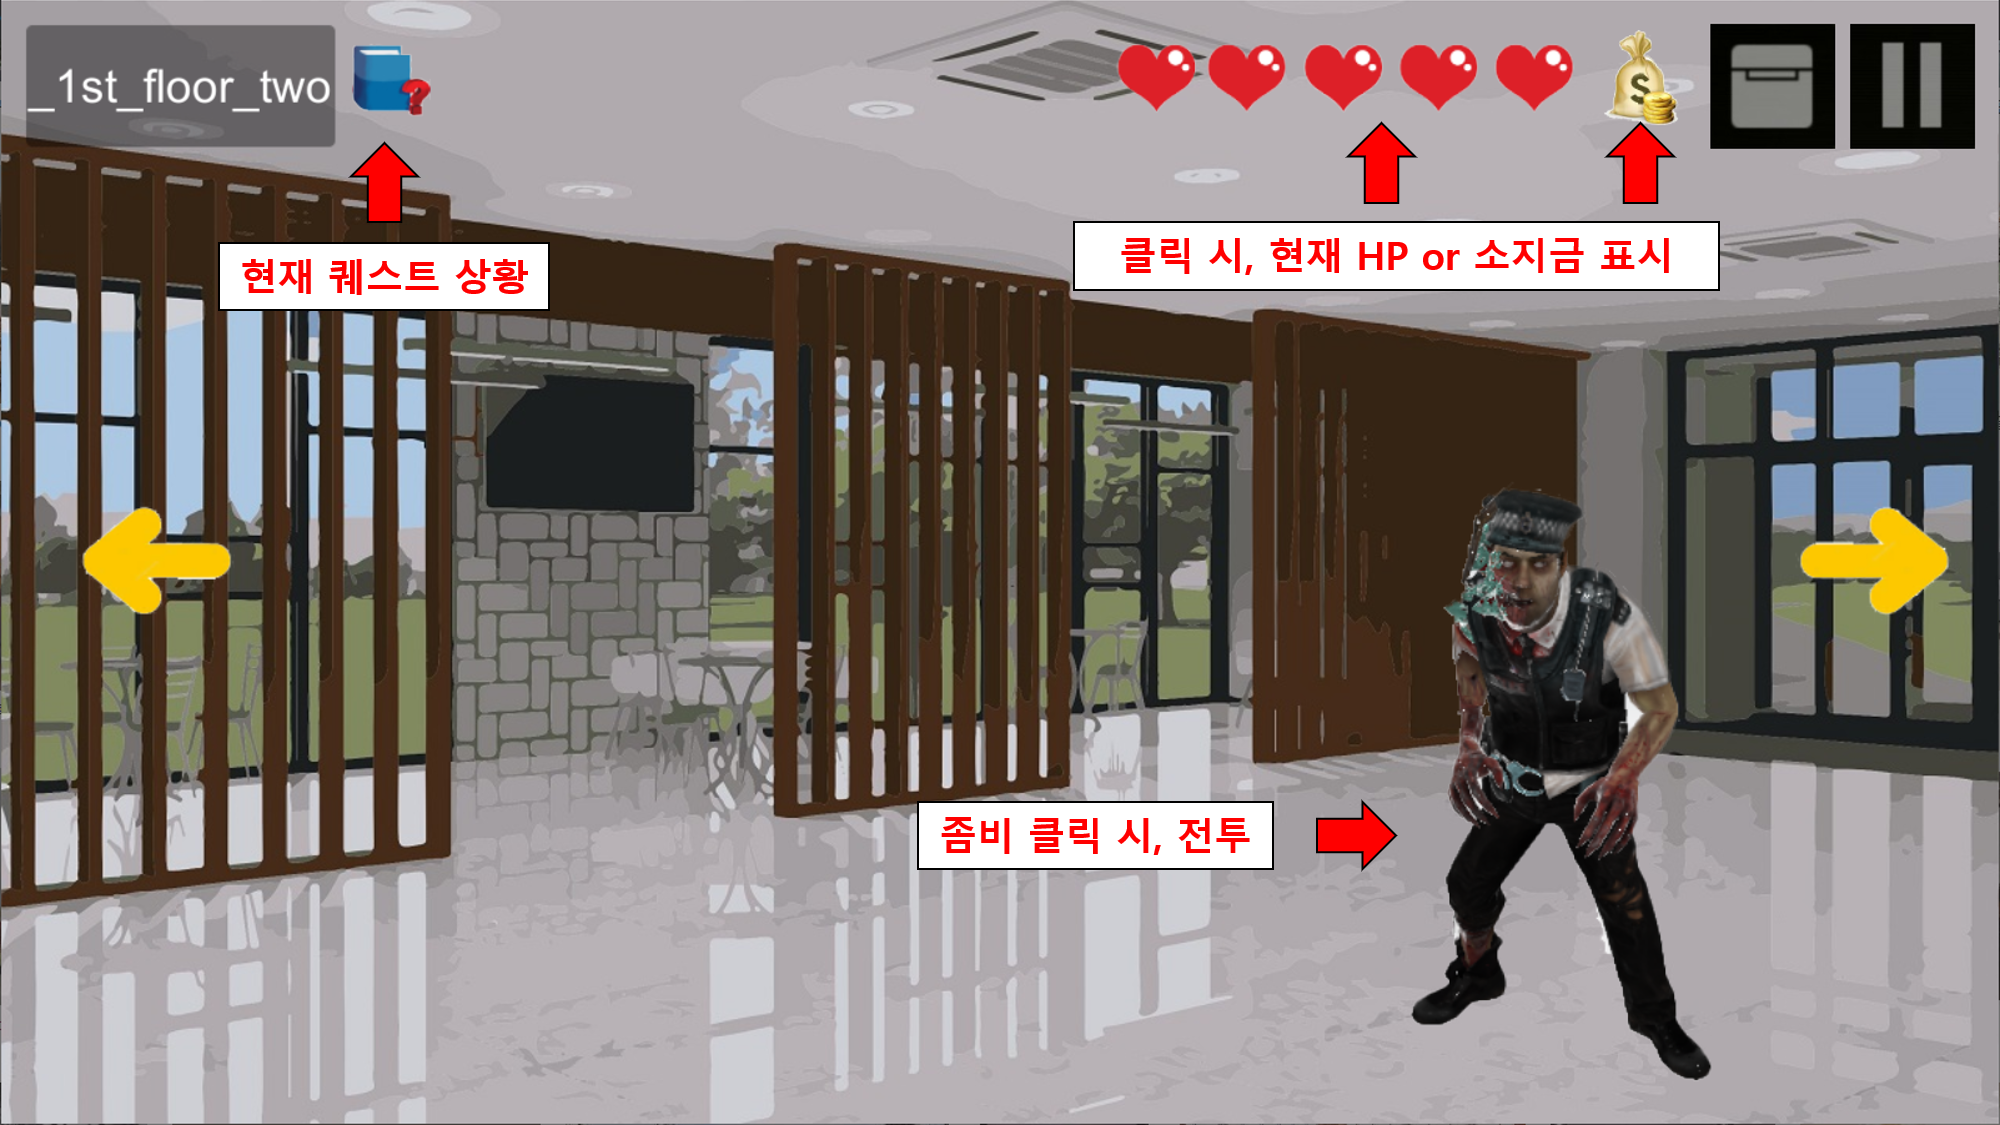
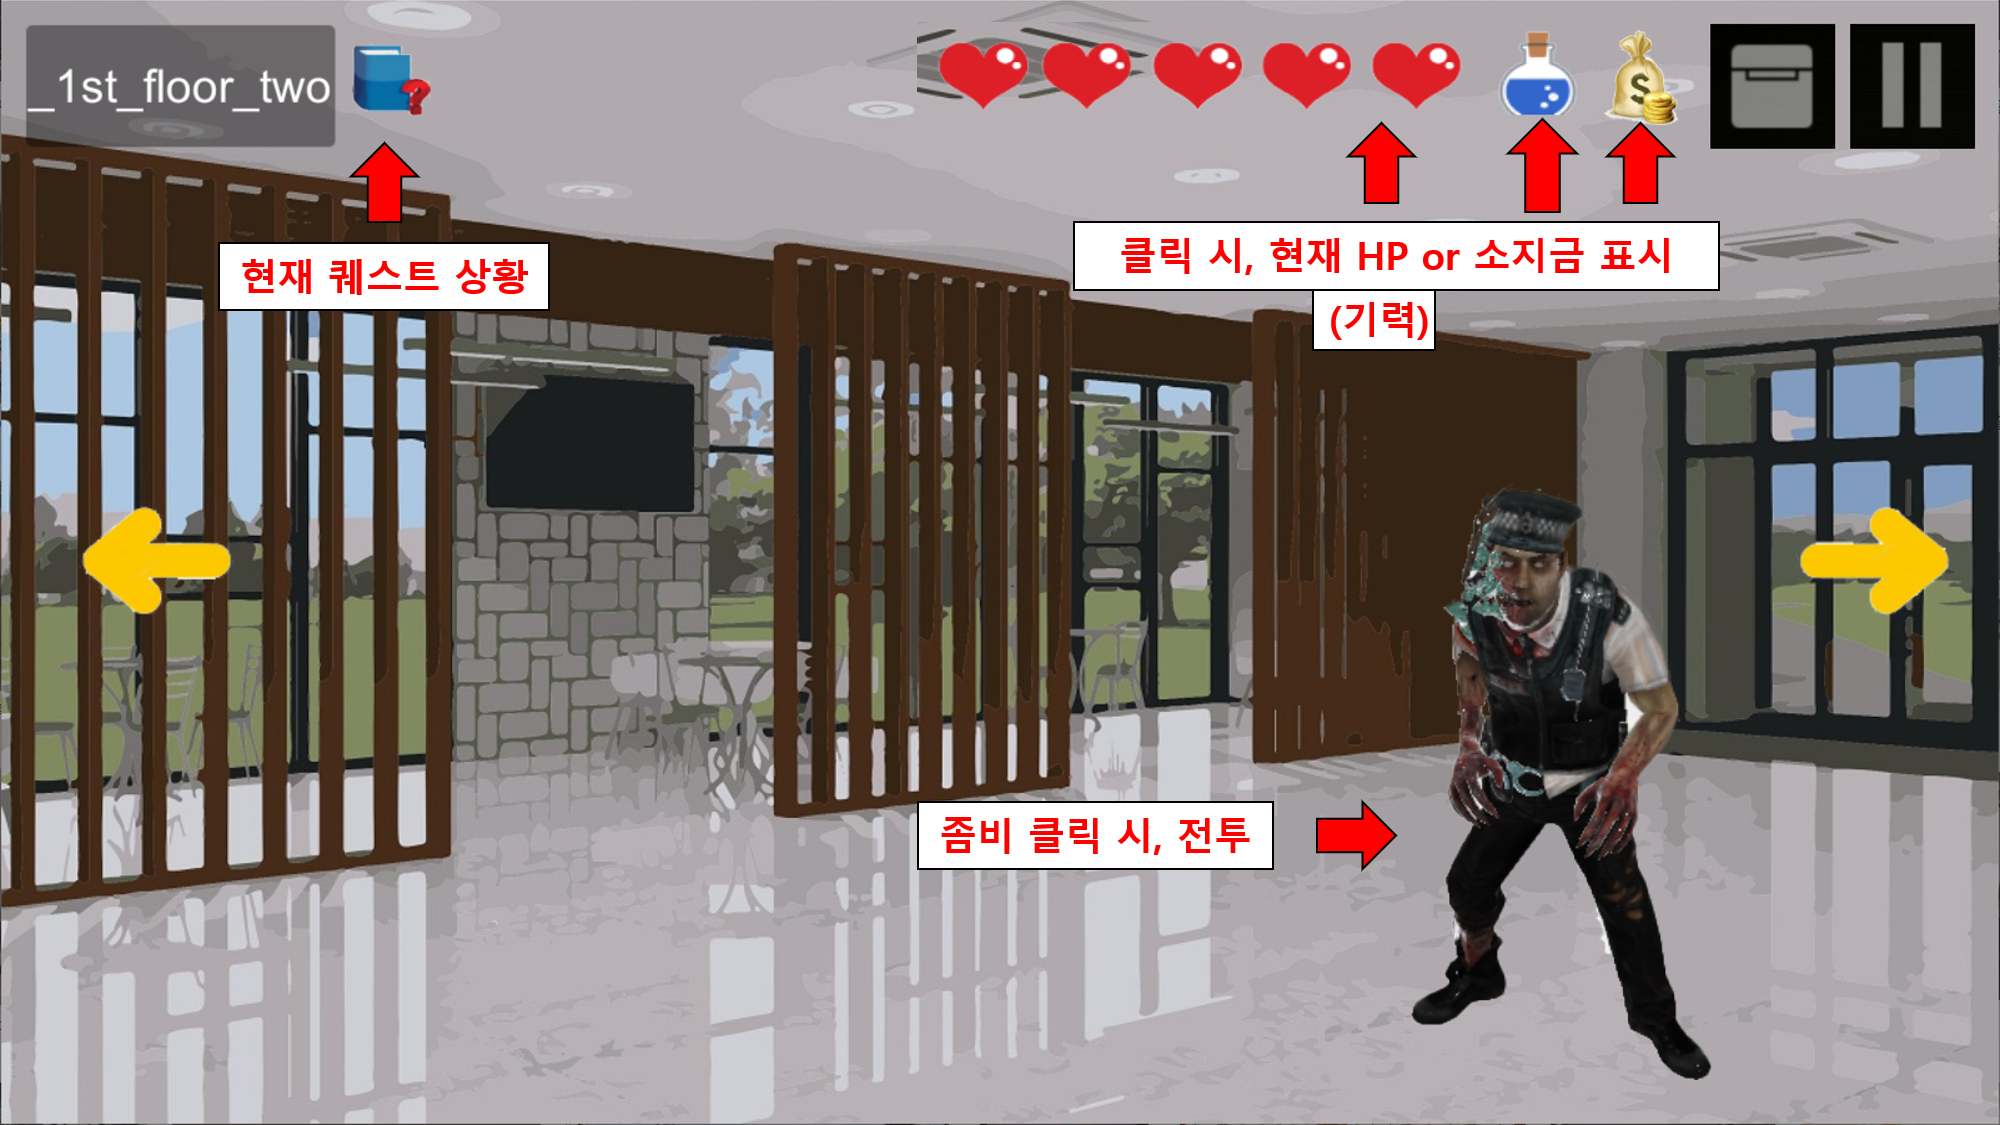
1201 Add Stamina & recovery Item
1201 Add Stamina & recovery Item

Changed region(s): [[0.434, 0.0311, 0.806, 0.1867], [0.651, 0.2489, 0.744, 0.3111]]

diff --git a/zombie/code.js b/zombie/code.js
@@ -68,6 +68,7 @@ function player_control() {
     // var Player = player_control();
 
     this.life = 0;
+    this.stamina = 0;
     this.money = 0;
     this.quest_index = 1;
     this.quest_message = "퀘스트가 없습니다 !";
@@ -82,6 +83,8 @@ function player_control() {
     life_change         :   라이프 변경(eg.공격을 받거나, 회복 아이템 사용 시)
     life_change_image   :   change 메소드에 따른, 라이프 이미지 변경(Do NOT use directly)
 
+    stamina_create      :   UI에 기력 생성
+
     money_create        :   UI에 소지금 생성
     money_change        :   소지금 변경(eg.상점 이용, 플레어 사망 시)
 
@@ -92,7 +95,7 @@ function player_control() {
 player_control.prototype.life_create = function() {
     for (var i = 0; i < room_list.length; i++){
         room = room_list[i];
-        room.life = new obj(room, "life", "life_5.png", 300, 860, 50);
+        room.life = new obj(room, "life", "life_5.png", 300, 800, 50);
         room.life.onClick = function(){printMessage("HP : "+Player.life)}
     }
 }
@@ -100,6 +103,7 @@ player_control.prototype.life_change = function(change_life_amount) {
     var changed_life = this.life + change_life_amount;
 
     if (changed_life <= 0) {game.gameover()}  // 라이프가 0이하면 게임오버
+    if (changed_life > 100) {throw "체력이 초과하여 회복될 수 없습니다."}
 
     if (Math.floor(this.life/10) != Math.floor(changed_life/10)) {
     //자릿수가 바뀔 경우에만 실행
@@ -115,6 +119,19 @@ player_control.prototype.life_change_image = function(change_to_life_image) {
     for(var i = 0; i < room_list.length; i++) {
         room = room_list[i];
         room.life.obj.setSprite(change_to_life_image)}
+}
+
+player_control.prototype.stamina_create = function() {
+    for (var i = 0; i < room_list.length; i++){
+        room = room_list[i];
+        room.stamina = new obj(room, "stamina", "stamina.png", 50, 990, 50);
+        room.stamina.onClick = function(){printMessage("Stamina : "+Player.stamina)}
+    }
+}
+player_control.prototype.stamina_change = function(change_stamina_amount) {
+    if(this.stamina + change_stamina_amount < 0) {throw "기력이 부족합니다."}
+    if (this.stamina + change_stamina_amount > 50) {throw "기력이 초과하여 회복될 수 없습니다."}
+    this.stamina += change_stamina_amount;
 }
 
 player_control.prototype.money_create = function() {
@@ -218,7 +235,26 @@ function weapon(room, name, image, width, x_loc, y_loc, damage, skill_name, skil
 weapon.prototype = Object.create(obj.prototype)
 weapon.prototype.constructor = weapon;
 weapon.prototype.onClick = function () {
-    if(Player.money > this.cost) { this.obj.pick(); Player.money_change(0-this.cost) }
+    if(Player.money >= this.cost) { this.obj.pick(); Player.money_change(0-this.cost) }
+    else{printMessage("돈이 부족하다 !!")}
+}
+
+function item(room, name, image, width, x_loc, y_loc, cost, effect) {
+    obj.call(this, room, name, image, width, x_loc, y_loc);
+
+    this.cost = cost;
+    this.effect = effect;
+}
+item.prototype = Object.create(obj.prototype)
+item.prototype.constructor = item;
+item.prototype.onClick = function () {
+    if(Player.money >= this.cost) {
+        try {
+        this.effect();
+        Player.money_change(0-this.cost)
+        printMessage("회복되었습니다 !\n"+"현재 체력"+Player.life+"  현재 기력 : "+Player.stamina)
+        } catch(e) { printMessage(e) }
+        }
     else{printMessage("돈이 부족하다 !!")}
 }
 
@@ -290,6 +326,9 @@ var Player = new player_control();
 Player.life_create()
 Player.life_change(100)
 
+Player.stamina_create()
+Player.stamina_change(50)
+
 Player.money_create()
 Player.money_change(500)
 
@@ -305,6 +344,9 @@ _shop_itemlist.weapon_axe = new weapon(_shop_itemlist, "weapon_axe", "weapon_axe
 _shop_itemlist.weapon_chainsaw = new weapon(_shop_itemlist, "weapon_chainsaw", "weapon_chainsaw.png", 100, 230, 190, 15, "텍사스의 추억", 30, 200)
 _shop_itemlist.weapon_lightsaber = new weapon(_shop_itemlist, "weapon_lightsaber", "weapon_lightsaber.png", 140, 370, 190, 20, "일격필살", 40, 400)
 _shop_itemlist.weapon_railgun = new weapon(_shop_itemlist, "weapon_railgun", "weapon_railgun.png", 100, 510, 190, 25, "정조준 일격", 9999, 1000)
+
+_shop_itemlist.lamb_sticks = new item(_shop_itemlist, "lamb_sticks", "lamb_sticks.png", 90, 1060, 450, 50, function() {Player.life_change(30)})
+_shop_itemlist.tsingtao = new item(_shop_itemlist, "tsingtao", "tsingtao.png", 30, 1200, 460, 50, function() {Player.stamina_change(50)} )
 
 
 //==========================================================================================
@@ -351,7 +393,7 @@ _battle_field.button_attack.onClick = function () {
 _battle_field.button_skill.onClick = function () {
     try {
         Player.weapon();
-
+        Player.stamina_change(-10)
         _battle_field.zombie.life -= Player.skill_damage;
         Player.life_change(0-_battle_field.zombie.damage);
         printMessage("필살 !"+Player.skill_name+" !!\n"+"남은 HP("+Player.life+") 좀비 HP("+_battle_field.zombie.life+")")
@@ -362,7 +404,7 @@ _battle_field.button_skill.onClick = function () {
             original_zombie.obj.hide();
         }
     } catch(e) {
-        printMessage("무기를 들고 덤비자")
+        printMessage(e)
     }
 }
 
@@ -403,12 +445,10 @@ _1st_floor_two.zombie.onClick = function() {
     if(_1st_floor_two.zombie.flag != true) {
         printMessage("??? : 아직 낯설테니.. 간단한 도움을 주도록 하지")
         showImageViewer("tutorial2.png");
-        _1st_floor_one.zombie.flag = true;
+        _1st_floor_two.zombie.flag = true;
     }
     battle(_1st_floor_two, _1st_floor_two.zombie)
 }
-
-
 
 _1st_floor_three.left_arrow = new arrow(_1st_floor_three, "left_arrow", _1st_floor_two, 100, 100, 360)
 
